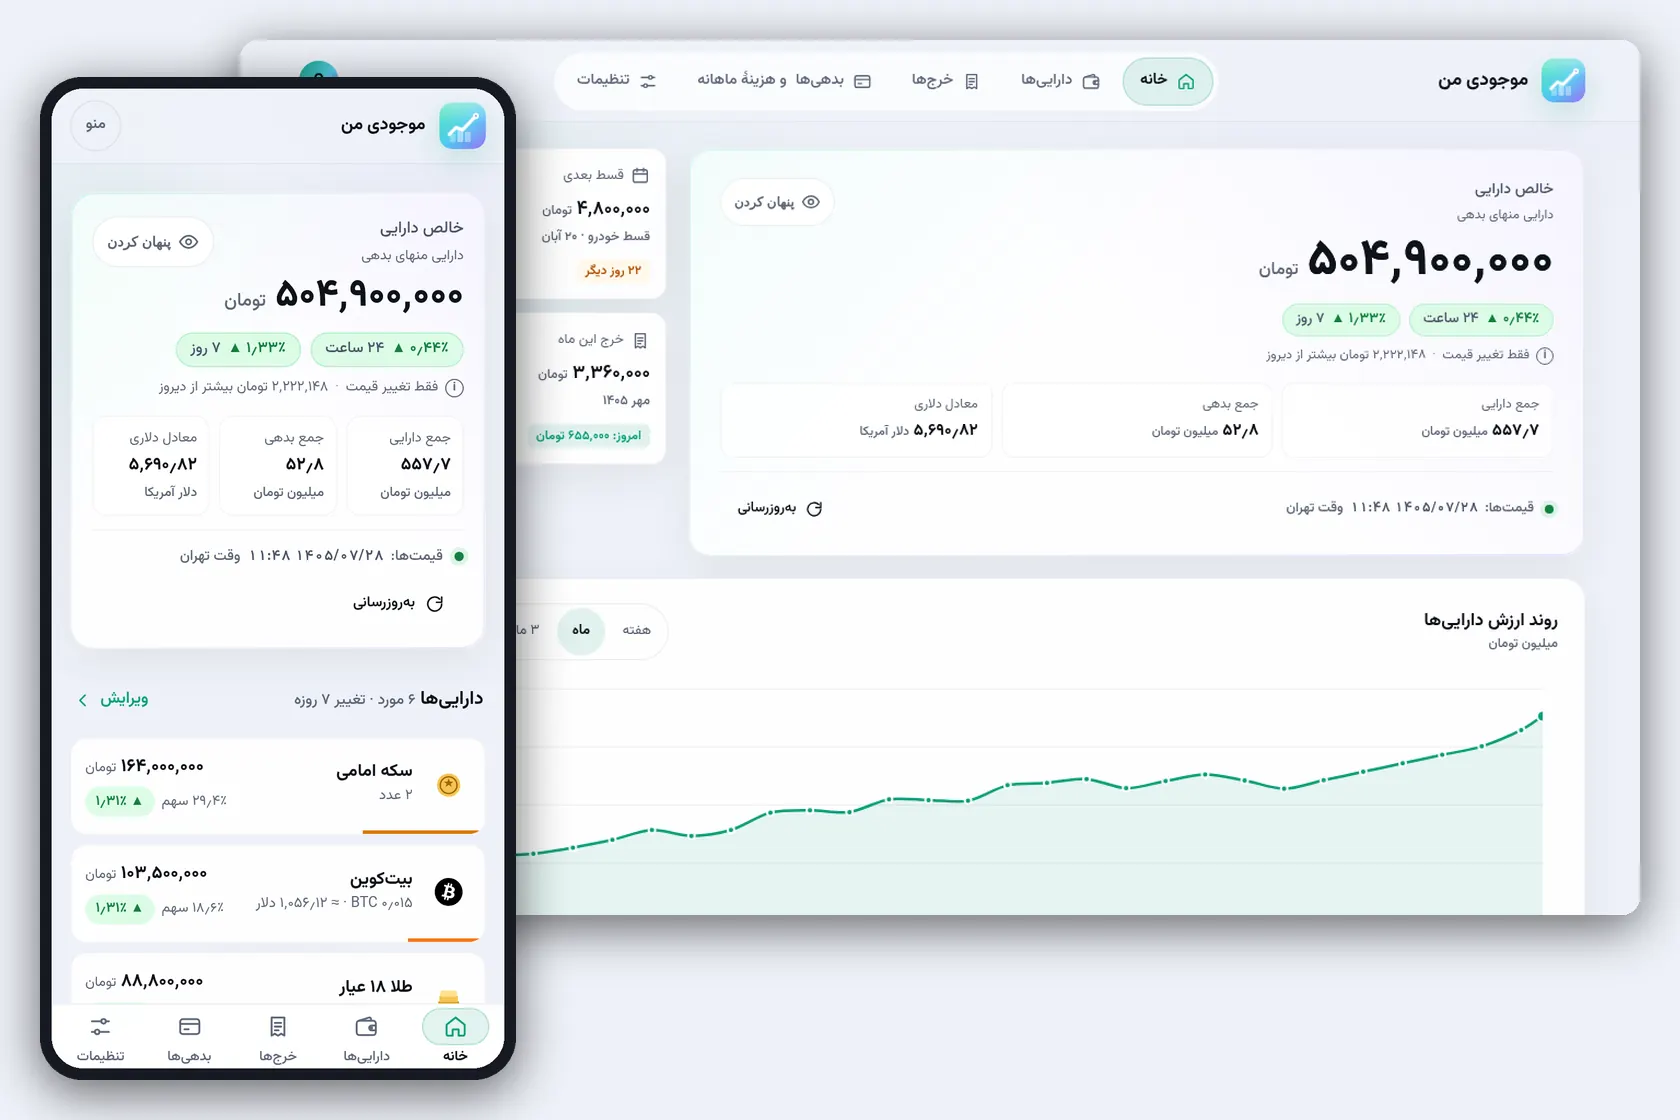
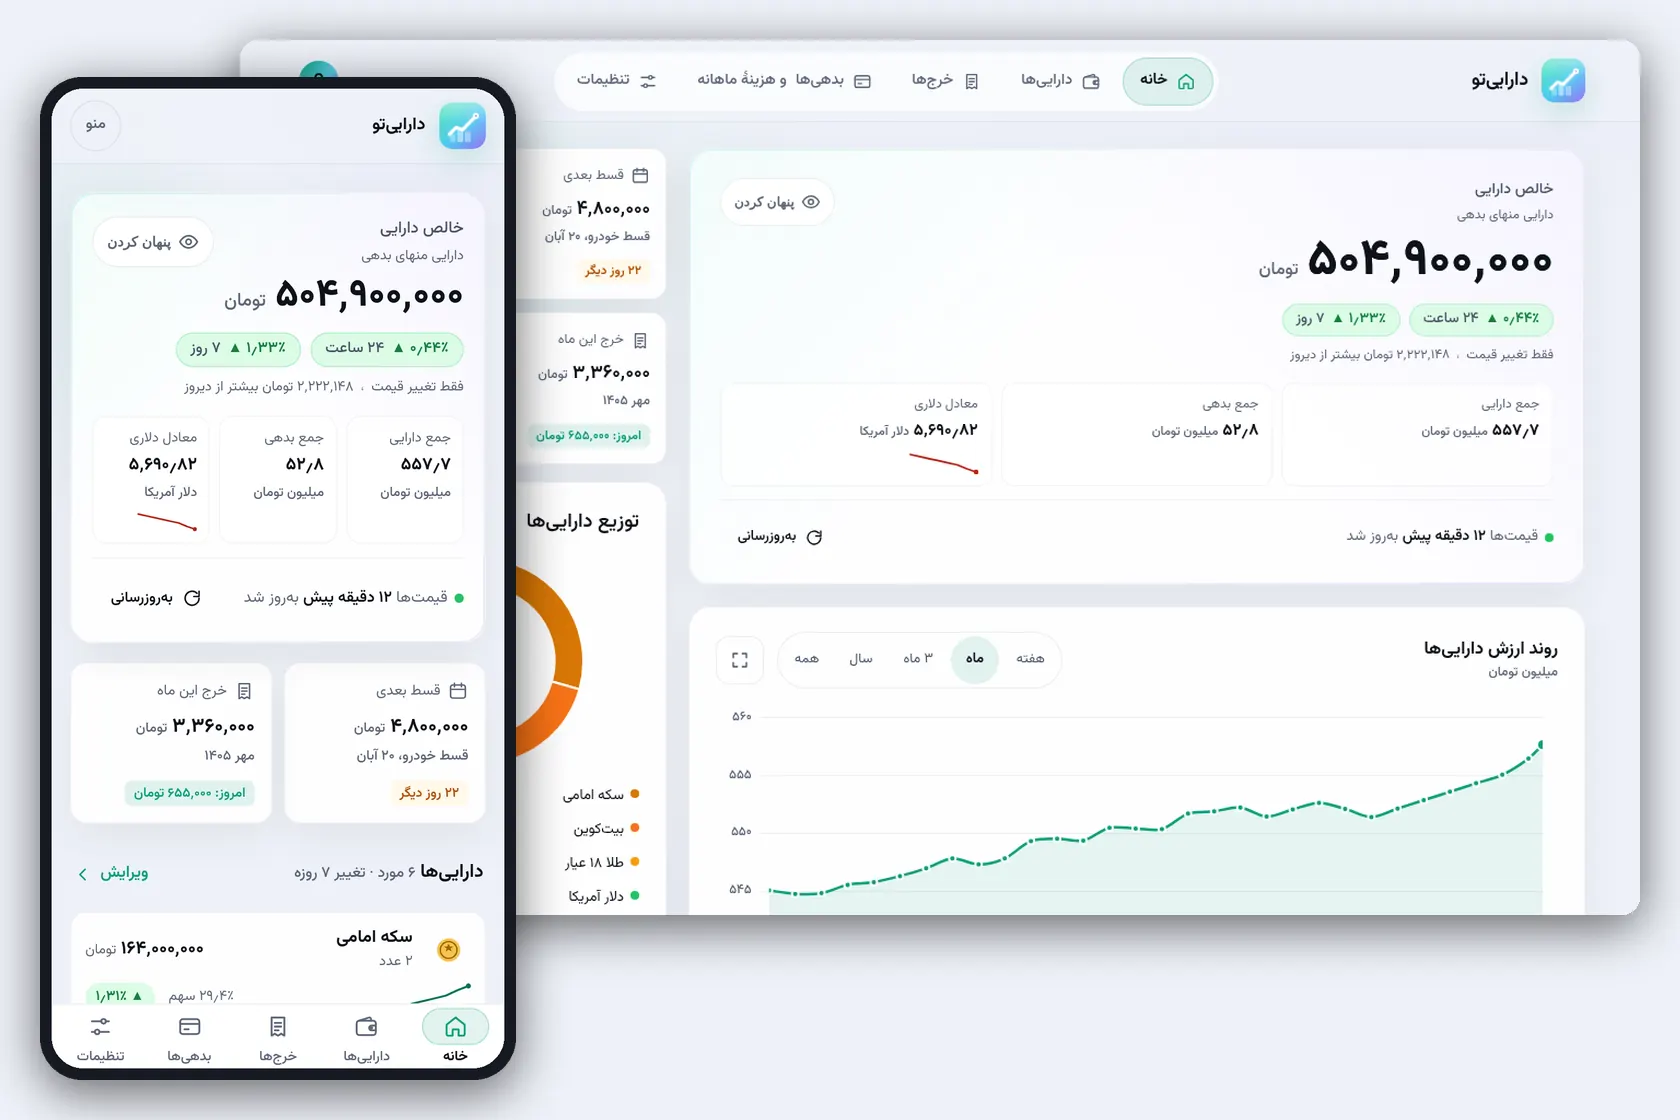
Landing: re-shoot the 10 images with the new name + fix landing_shots.py (stacked on #32) (#33)
* Brand copy (Android text only): app_name, setup.html title/header, default push title -> داراییتو (rows 25,27-29)

* Brand copy: «موجودی من» -> «داراییتو» on web (copy-table rows 1-24, 30-37); STATIC_ASSET_VERSION 20261027b

* Brand copy (Android text): update dialog callout «برای داراییتو»

* tests: auth title expects the new brand name

* Landing: re-shoot the 10 hero/phone/spend WebPs with the new name (fake demo data); fix landing_shots.py for Spending v2 sheet + Chart.js; STATIC_ASSET_VERSION 20261027d

* Landing: drop 4 unused hero-phone WebPs (not referenced by landing.html), manifest git_sha is a real SHA, test pins both

diff --git a/scripts/landing_shots.py b/scripts/landing_shots.py
@@ -2,7 +2,7 @@
 
 Run on every release that changes a pictured screen:
     pip install playwright pillow && python -m playwright install chromium   # once
-    python scripts/landing_shots.py            # writes app/static/landing/*.webp + manifest.json
+    python scripts/landing_shots.py            # writes app/static/landing/*.webp + manifest.json (git_sha = HEAD, or GIT_SHA)
 Options: --chrome /usr/bin/google-chrome  --raw-dir DIR (also keep the PNG captures)  --out DIR
 
 Safety: a fresh temporary SQLite under mktemp, the hourly price job off, no network, a fixed clock
@@ -131,13 +131,18 @@ def capture(base, password, chrome, raw_dir):
                 assert r.status_code in (200, 303) and "/dashboard" in str(r.url) or r.status_code == 303, "demo login failed"
                 c.add_cookies([{"name": k, "value": v, "url": base} for k, v in hc.cookies.items()])
                 pg = c.new_page()
-                pg.clock.set_fixed_time(FROZEN_ISO)
+                pg.clock.set_system_time(FROZEN_ISO)  # runs from the frozen start (set_fixed_time would freeze Chart.js animations)
                 return c, pg
 
             def load(pg, path):
                 pg.goto(base + path, wait_until="networkidle")
                 pg.evaluate("document.fonts.ready")
-                pg.wait_for_timeout(500)
+                pg.wait_for_timeout(1800)  # let the Chart.js animations finish
+                # the allocation doughnut only paints once its panel has been scrolled into view
+                pg.evaluate("""()=>{const p=document.getElementById('pie-panel');if(p)p.scrollIntoView({block:'center'});}""")
+                pg.wait_for_timeout(1500)
+                pg.evaluate("scrollTo(0,0)")
+                pg.wait_for_timeout(300)
                 leaked = pg.evaluate(HIDE_USER_JS, "demo_nemoone")
                 assert not leaked, "demo username still in the page"
 
@@ -157,17 +162,16 @@ def capture(base, password, chrome, raw_dir):
             c, pg = ctx(390, 844, 2)
             load(pg, "/dashboard")
             shots[("phone", theme)] = grab(pg)
-            # slot 4: add-spend form, pre-filled (not saved) + the first recent spends
+            # slot 4: add-spend sheet (Spending v2: on a phone the form opens as a bottom sheet from the
+            # «ثبت خرج» bar), pre-filled but never saved
             load(pg, "/dashboard?tab=daily")
-            pg.fill('#daily-spend-form input[name="amount_toman"]', "350000")
-            pg.evaluate("""()=>{const f=document.getElementById('daily-spend-form');
-              const s=[...f.querySelectorAll('select')];const p=s[0];if(p){const o=[...p.options].find(o=>o.textContent.trim()==='خوراک');
-              if(o){p.value=o.value;p.dispatchEvent(new Event('change',{bubbles:true}));}}}""")
+            pg.click("[data-sp-addbar] [data-sp-open-form]")
+            pg.wait_for_timeout(500)
+            pg.fill("#sp-amount_toman", "350000")
+            pg.click("[data-sp-pchips] button:has-text('خوراک')")
             pg.fill('#daily-spend-form input[name="note"]', "ناهار")
             pg.locator("#daily-spend-form input[name=note]").blur()
-            top = pg.evaluate("document.querySelector('.daily-add').getBoundingClientRect().top + scrollY")
-            pg.evaluate(f"scrollTo(0,{max(0, top - 76)})")
-            pg.wait_for_timeout(300)
+            pg.wait_for_timeout(400)
             shots[("spend", theme)] = grab(pg)
             c.close()
         br.close()
@@ -212,12 +216,6 @@ def build(shots, out: Path):
         hero = canvas.convert("RGB")
         for w in (1680, 1120):
             save(sized(hero, w), f"hero-{theme}-{w}.webp")
-        # phone-only hero, 360 × 779 / 720 × 1558
-        ph = Image.new("RGBA", framed.size, BG[theme] + (255,))
-        ph.alpha_composite(framed)
-        ph = ph.convert("RGB").resize((720, 1558), Image.LANCZOS)
-        for w in (720, 360):
-            save(sized(ph, w), f"hero-phone-{theme}-{w}.webp")
         # slot 1 desktop, slot 2 phone, slot 3 chart, slot 4 spend
         for w in (1280, 640):
             save(sized(desk, w), f"dashboard-desktop-{theme}-{w}.webp", "desktop", theme)

diff --git a/tests/test_landing_assets.py b/tests/test_landing_assets.py
@@ -1,0 +1,37 @@
+"""Landing screenshots: every file in the manifest exists, stays under the size cap, and the generator signs in via /auth."""
+import json
+import re
+from pathlib import Path
+
+ROOT = Path(__file__).resolve().parents[1]
+LANDING = ROOT / "app" / "static" / "landing"
+
+
+def test_manifest_files_exist_and_fit_budget():
+    m = json.loads((LANDING / "manifest.json").read_text(encoding="utf-8"))
+    names = {f["file"] for f in m["files"]}
+    assert len(names) == 6
+    for f in m["files"]:
+        p = LANDING / f["file"]
+        assert p.exists() and p.stat().st_size == f["bytes"] <= 150 * 1024, f["file"]
+    assert {p.name for p in LANDING.glob("*.webp")} == names
+    assert re.fullmatch(r"[0-9a-f]{40}", m["git_sha"]), "git_sha must be a commit SHA, not a label"
+
+
+def test_every_shipped_landing_image_is_used_by_the_template():
+    tpl = (ROOT / "app" / "templates" / "landing.html").read_text(encoding="utf-8")
+    for p in LANDING.glob("*.webp"):
+        assert p.name in tpl, f"{p.name} is shipped but not referenced"
+
+
+def test_landing_page_references_only_existing_images(client):
+    import re
+    html = client.get("/").text
+    for rel in set(re.findall(r"/static/landing/([\w.-]+\.webp)", html)):
+        assert (LANDING / rel).exists(), rel
+
+
+def test_generator_uses_unified_auth_and_spending_v2_selectors():
+    src = (ROOT / "scripts" / "landing_shots.py").read_text(encoding="utf-8")
+    assert '"/auth/continue"' in src and 'post("/login"' not in src
+    assert "data-sp-open-form" in src and "#sp-amount_toman" in src

diff --git a/app/config.py b/app/config.py
@@ -27,7 +27,7 @@ PRICE_REFRESH_HOURS = int(os.environ.get("PRICE_REFRESH_HOURS", "1"))
 PRICE_MANUAL_REFRESH_MINUTES = int(os.environ.get("PRICE_MANUAL_REFRESH_MINUTES", "5"))
 ENABLE_INTERNAL_SCHEDULER = os.environ.get("ENABLE_INTERNAL_SCHEDULER", "1") == "1"
 # Bump when static JS/CSS change so browsers and the service worker pick up new assets.
-STATIC_ASSET_VERSION = os.environ.get("STATIC_ASSET_VERSION", "20261027c")
+STATIC_ASSET_VERSION = os.environ.get("STATIC_ASSET_VERSION", "20261027d")
 # Public origin shown to users (e.g. MCP URL). Empty = use the request's own base URL.
 PUBLIC_BASE_URL = os.environ.get("PUBLIC_BASE_URL", "").strip().rstrip("/")
 
